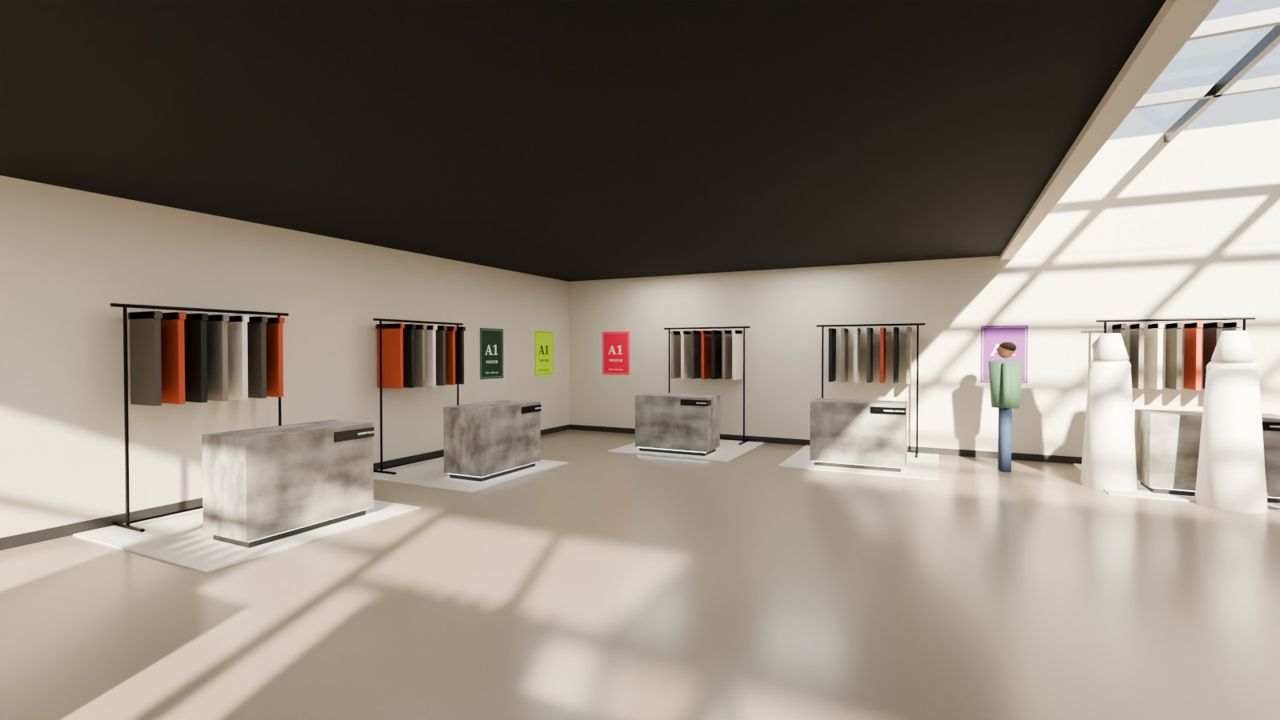
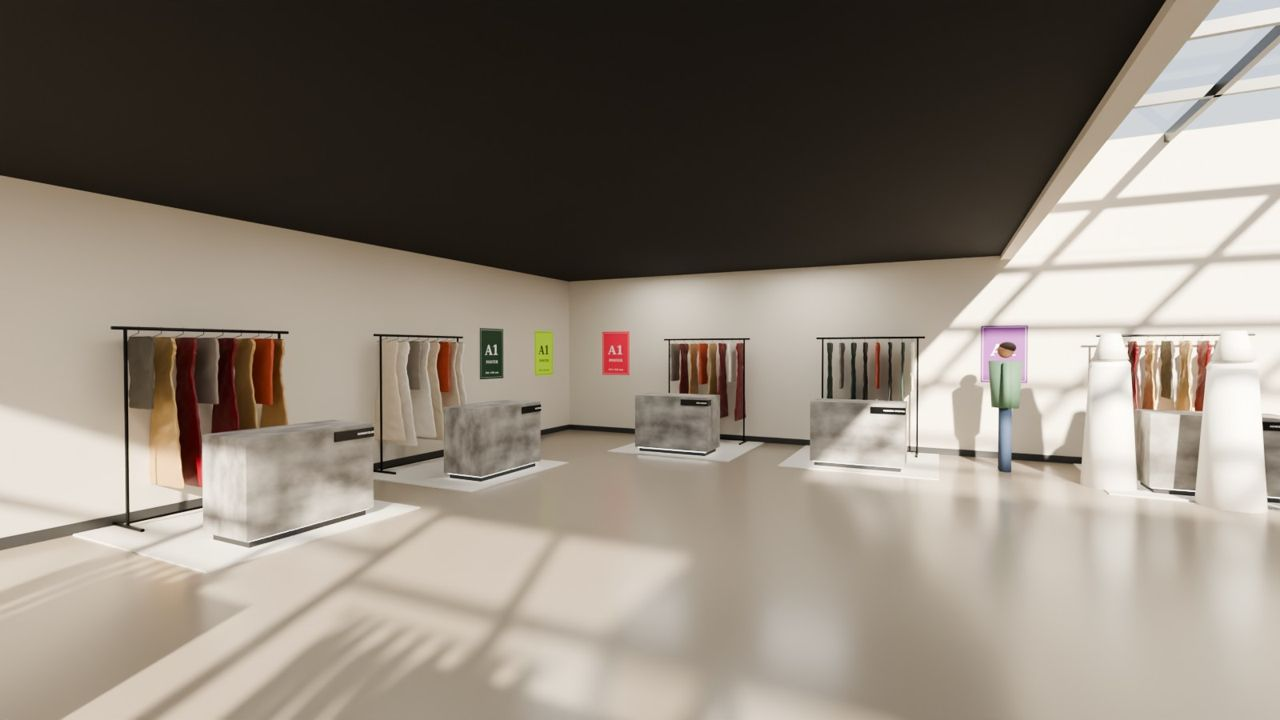
3D views: Edit racks at 1.8 m with gowns
Claude-Session: https://claude.ai/code/session_01RKwS6ijLGS6BpKBcyrHVFE

diff --git a/manage.html b/manage.html
@@ -226,7 +226,7 @@ function planSVG(){
 }
 /* ---------- 3D views ---------- */
 const VIEWS=[
- {t:'Venue · current layout',s:'Updated 19 Nov 2026 (night). Black 3 m ceilings on the sides, glass-roof square (4.5 m) in the centre, cherry red Academy tables, approved canvas stands at the Academy edge, black racks in The Edit (160 cm wide, 2 m high, no wheels). Table name plates shown as option C.',
+ {t:'Venue · current layout',s:'Updated 19 Nov 2026 (night). Black 3 m ceilings on the sides, glass-roof square (4.5 m) in the centre, cherry red Academy tables, approved canvas stands at the Academy edge, black racks in The Edit (160 cm wide, 1.8 m high, no wheels, gowns and tops). Table name plates shown as option C.',
   i:[['venue-01-front-door','From the front door'],['venue-02-square-from-the-edit','Glass-roof square, from The Edit'],['venue-03-square-to-south-wall','Square towards the south wall'],['venue-04-square-to-academy','Square towards the Academy'],['venue-05-main-hall-to-the-edit','Main hall towards The Edit'],['venue-06-inside-the-edit','Inside The Edit'],['venue-07-academy-door-registration','Academy door and registration'],['venue-08-inside-academy','Inside the Academy'],['venue-09-edit-tables','The Edit · tables and black racks']]},
  {t:'Academy edge · canvas stands (approved 19 Nov)',s:'Approved: 5 angled stands, matte canvas, timber frame showing. Frame 158 × 237 cm, visible canvas 146 × 213 cm, print 150 × 217 cm (printer width 1.5 m, 2 cm tucked behind the frame each side), 25 cm white border, art 96 × 163 cm. Printed both sides. Leg style still to choose.',
   i:[['edge-stands-matte-frame','Approved finish · matte canvas, frame showing'],['edge-stands-wide','Stands from the hall'],['legs-T-current','Legs T · current feet'],['legs-A-frame','Legs A · splayed A-frame'],['legs-X-cross','Legs X · crossed feet'],['legs-O-offset','Legs O · offset feet with brace']]},
